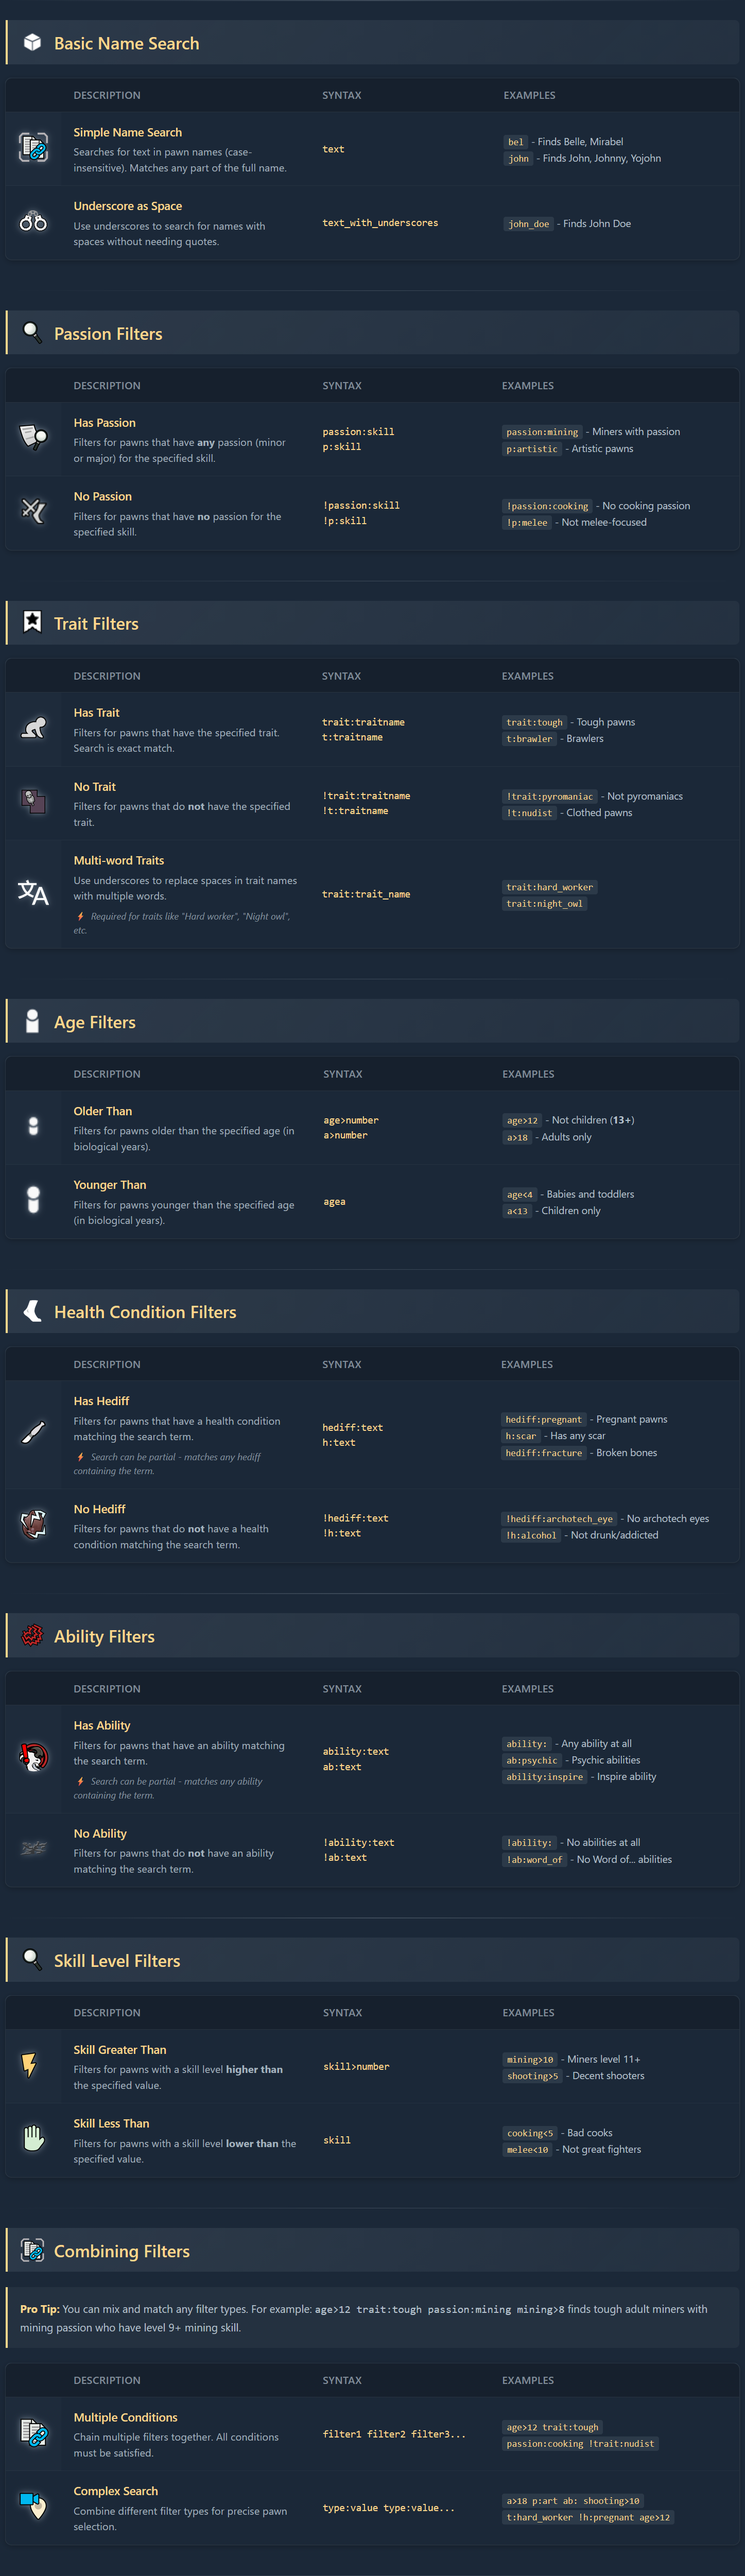
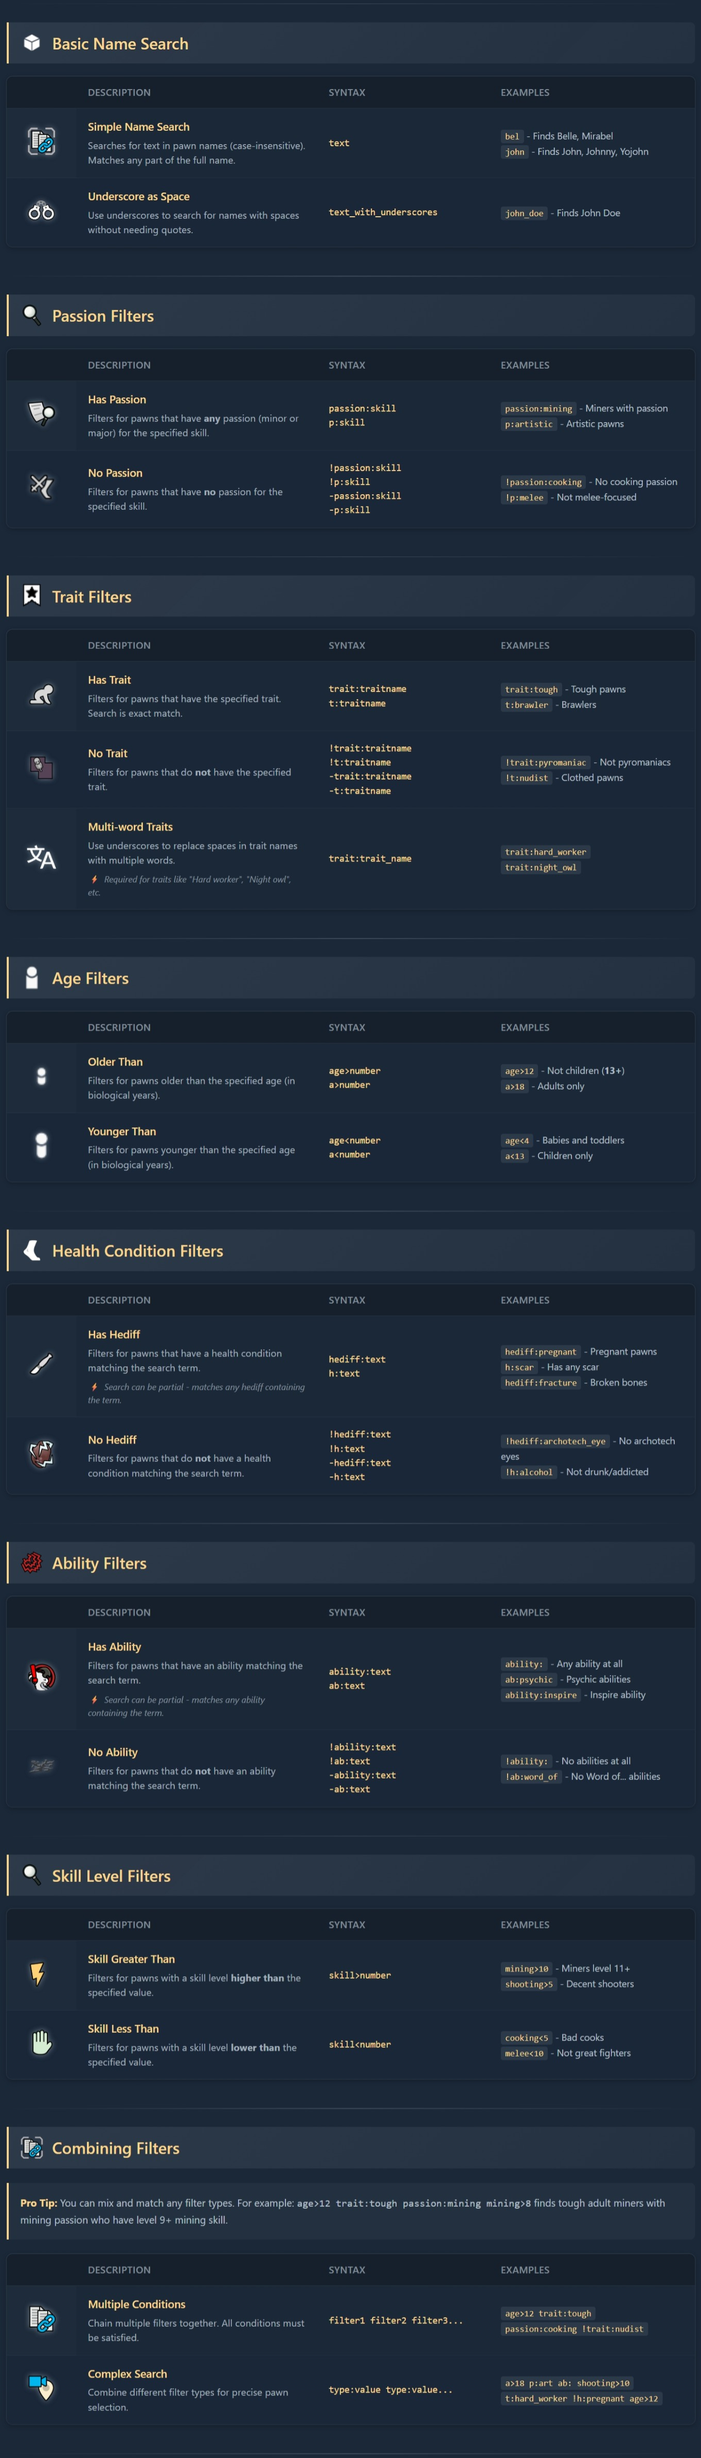
1.3.2 - added - as nogative search modifier alternative to !

diff --git a/Publishing/features.html b/Publishing/features.html
@@ -340,7 +340,7 @@
                 </div>
             </td>
             <td class="col-syntax">
-                !passion:skill<br>!p:skill
+                !passion:skill<br>!p:skill<br>-passion:skill<br>-p:skill
             </td>
             <td class="col-examples">
                         <span class="example-text">
@@ -407,7 +407,7 @@
                 </div>
             </td>
             <td class="col-syntax">
-                !trait:traitname<br>!t:traitname
+                !trait:traitname<br>!t:traitname<br>-trait:traitname<br>-t:traitname
             </td>
             <td class="col-examples">
                         <span class="example-text">
@@ -495,12 +495,12 @@
                 </div>
             </td>
             <td class="col-syntax">
-                age<number<br>a<number
+                age&lt;number<br>a&lt;number
             </td>
             <td class="col-examples">
                         <span class="example-text">
-                            <code>age<4</code> - Babies and toddlers<br>
-                            <code>a<13</code> - Children only
+                            <code>age&lt;4</code> - Babies and toddlers<br>
+                            <code>a&lt;13</code> - Children only
                         </span>
             </td>
         </tr>
@@ -564,7 +564,7 @@
                 </div>
             </td>
             <td class="col-syntax">
-                !hediff:text<br>!h:text
+                !hediff:text<br>!h:text<br>-hediff:text<br>-h:text
             </td>
             <td class="col-examples">
                         <span class="example-text">
@@ -633,7 +633,7 @@
                 </div>
             </td>
             <td class="col-syntax">
-                !ability:text<br>!ab:text
+                !ability:text<br>!ab:text<br>-ability:text<br>-ab:text
             </td>
             <td class="col-examples">
                         <span class="example-text">
@@ -700,12 +700,12 @@
                 </div>
             </td>
             <td class="col-syntax">
-                skill<number
+                skill&lt;number
             </td>
             <td class="col-examples">
                         <span class="example-text">
-                            <code>cooking<5</code> - Bad cooks<br>
-                            <code>melee<10</code> - Not great fighters
+                            <code>cooking&lt;5</code> - Bad cooks<br>
+                            <code>melee&lt;10</code> - Not great fighters
                         </span>
             </td>
         </tr>

diff --git a/Source/RitualFilter/PawnFilteringLogic.cs b/Source/RitualFilter/PawnFilteringLogic.cs
@@ -21,7 +21,7 @@ namespace RitualFilter
 
                     if (skill != null && skill.passion == Passion.None)
                         return false;
-                } else if (filterItem.StartsWith("!passion:") || filterItem.StartsWith("!p:"))
+                } else if (filterItem.StartsWith("!passion:") || filterItem.StartsWith("!p:") || filterItem.StartsWith("-passion:") || filterItem.StartsWith("-p:"))
                 {
                     var skillName = filterItem.Split(new[] { ':' }, 2)[1];
                     var skill = FindSkill(pawn, skillName);
@@ -35,7 +35,7 @@ namespace RitualFilter
 
                     if (trait == null)
                         return false;
-                } else if (filterItem.StartsWith("!trait:") || filterItem.StartsWith("!t:"))
+                } else if (filterItem.StartsWith("!trait:") || filterItem.StartsWith("!t:") || filterItem.StartsWith("-trait:") || filterItem.StartsWith("-t:"))
                 {
                     var traitName = filterItem.Split(new[] { ':' }, 2)[1];
                     var trait = FindTrait(pawn, traitName);
@@ -77,7 +77,7 @@ namespace RitualFilter
                     if (FindHediff(pawn, hediffName) == null)
                         return false;
 
-                } else if (filterItem.StartsWith("!hediff:") || filterItem.StartsWith("!h:"))
+                } else if (filterItem.StartsWith("!hediff:") || filterItem.StartsWith("!h:") || filterItem.StartsWith("-hediff:") || filterItem.StartsWith("-h:"))
                 {
                     var hediffName = filterItem.Split(new[] { ':' }, 2)[1];
 
@@ -91,7 +91,7 @@ namespace RitualFilter
                     if (FindAbility(pawn, abilityName) == null)
                         return false;
                     
-                } else if (filterItem.StartsWith("!ability:") || filterItem.StartsWith("!ab:"))
+                } else if (filterItem.StartsWith("!ability:") || filterItem.StartsWith("!ab:") || filterItem.StartsWith("-ability:") || filterItem.StartsWith("-ab:"))
                 {
                     var abilityName = filterItem.Split(new[] { ':' }, 2)[1];
                     
